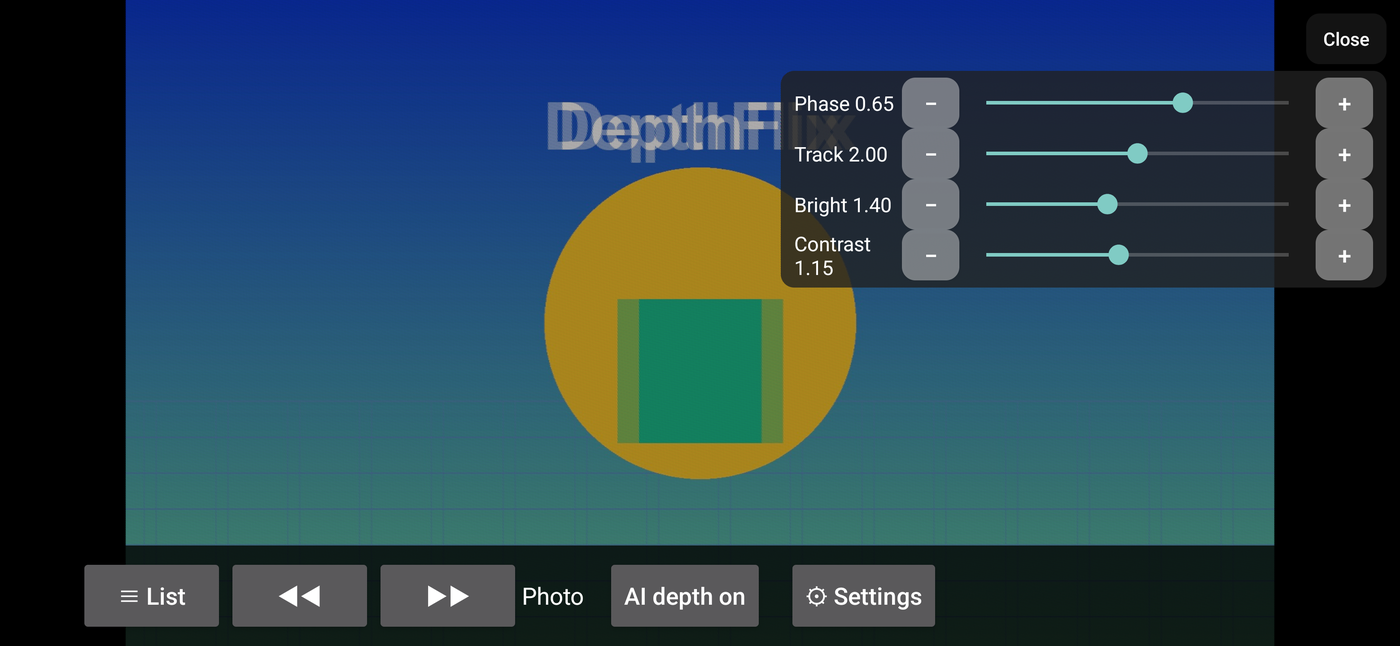
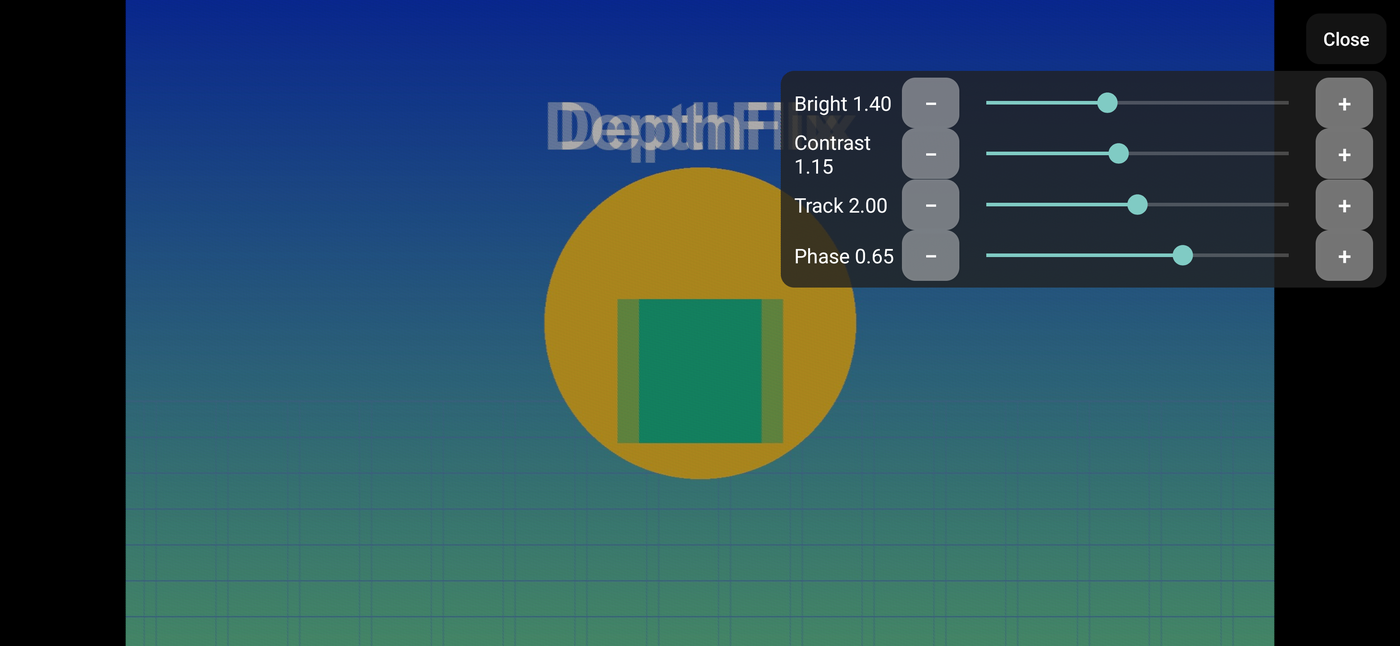
README: 3D tune bar screenshots in the new order (Korean and English)

diff --git a/README.md b/README.md
@@ -103,7 +103,7 @@ Leia 태블릿용 [DepthFlix](https://github.com/nautymac/DepthFlix)를 **갤럭
 | **추적** | 고개를 옆으로 움직일 때 3D가 깨질 때 (1.5~2.5). |
 | **위상** | 그림이 겹치거나 앞뒤가 뒤집혀 보일 때. 천천히 움직여 가장 선명한 곳에 둡니다. |
 
-값은 저장되고, 3D 맞추기 도구와 같은 값을 씁니다. 값을 바꾸고 손을 떼면 바는 1.5초 뒤, 열어 두기만 하면 5초 뒤 저절로 닫힙니다. (아래 스크린샷은 순서를 바꾸기 전에 찍은 것입니다.)
+값은 저장되고, 3D 맞추기 도구와 같은 값을 씁니다. 값을 바꾸고 손을 떼면 바는 1.5초 뒤, 열어 두기만 하면 5초 뒤 저절로 닫힙니다.
 
 **설정 패널** (재생 중 아래 **⚙ 설정**)
 
@@ -345,7 +345,7 @@ Put the **3D** tile in the Quick Settings panel (swipe down from the top of the 
 | **Track** | 3D breaks when you move your head sideways (1.5–2.5). |
 | **Phase** | The picture looks doubled or inside-out. Slide slowly to the sharpest point. |
 
-Saved, and shared with the 3D setup tool. The bar closes by itself 1.5 s after you change something and lift your finger, and after 5 s if you only open it. (The screenshot below was taken before the order changed.)
+Saved, and shared with the 3D setup tool. The bar closes by itself 1.5 s after you change something and lift your finger, and after 5 s if you only open it.
 
 **Settings panel** (while playing, **⚙ Settings** at the bottom)
 
